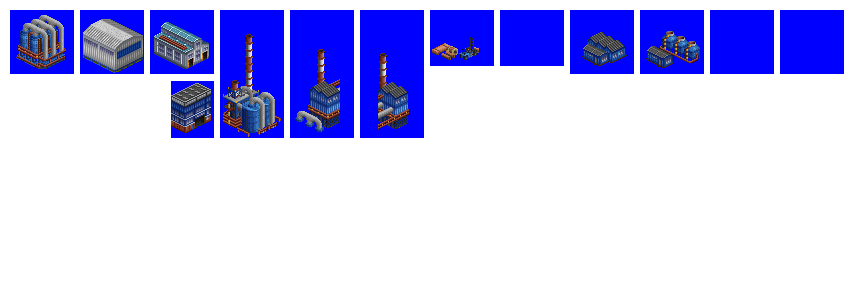
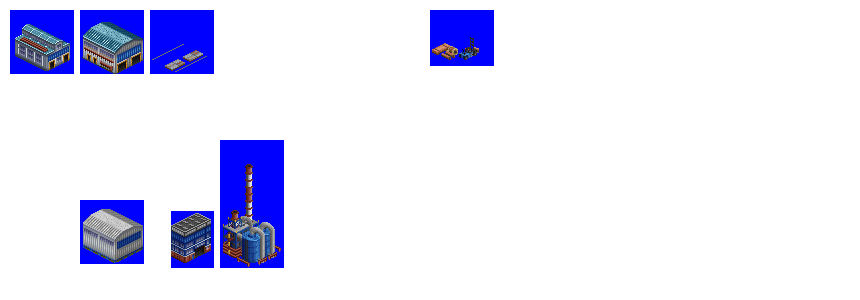
Change: Plate Mill done enough for v5

Changed region(s): [[0.0, 0.03, 0.514, 0.9], [0.5744, 0.03, 0.9977, 0.27]]

diff --git a/src/industries/plate_mill.py b/src/industries/plate_mill.py
@@ -21,7 +21,7 @@ industry = IndustrySecondary(
     nearby_station_name="string(STR_STATION_PLATE_MILL)",
     fund_cost_multiplier="200",
     pollution_and_squalor_factor=2,
-    sprites_complete=False,
+    sprites_complete=True,
 )
 
 industry.enable_in_economy(
@@ -44,305 +44,69 @@ spriteset_ground = industry.add_spriteset(
 spriteset_ground_overlay = industry.add_spriteset(
     type="empty",
 )
-spriteset_1 = industry.add_spriteset(
-    sprites=[(10, 10, 64, 64, -31, -31)],
+spriteset_shed_1 = industry.add_spriteset(
+    sprites=[(10, 10, 64, 64, -31, -35)],
 )
-spriteset_2 = industry.add_spriteset(
-    sprites=[(80, 10, 64, 64, -31, -26)],
+spriteset_shed_2 = industry.add_spriteset(
+    sprites=[(80, 10, 64, 64, -31, -35)],
 )
-spriteset_3 = industry.add_spriteset(
-    sprites=[(150, 10, 64, 64, -31, -31)],
+spriteset_shed_metal_1 = industry.add_spriteset(
+    sprites=[(150, 10, 64, 64, -31, -35)],
 )
-spriteset_4 = industry.add_spriteset(
-    sprites=[(220, 10, 64, 128, -31, -95)],
-)
-spriteset_5 = industry.add_spriteset(
-    sprites=[(290, 10, 64, 128, -31, -95)],
-)
-spriteset_6 = industry.add_spriteset(
-    sprites=[(360, 10, 64, 128, -31, -95)],
-)
-spriteset_7 = industry.add_spriteset(
-    sprites=[(430, 10, 64, 56, -31, -26)],
-)
-spriteset_8 = industry.add_spriteset(
-    sprites=[(500, 10, 64, 56, -31, -26)],
-)
-spriteset_9 = industry.add_spriteset(
-    sprites=[(570, 10, 64, 64, -31, -31)],
-)
-spriteset_10 = industry.add_spriteset(
-    sprites=[(640, 10, 64, 64, -31, -31)],
-)
-spriteset_11 = industry.add_spriteset(
-    sprites=[(710, 10, 64, 110, -31, -61)],
-)
-sprite_transformer = industry.add_sprite(
-    sprite_number=2054,
-)
-sprite_smoke_1 = industry.add_smoke_sprite(
-    smoke_type="white_smoke_big",
-    xoffset=1,
-    yoffset=0,
-    zoffset=72,
-)
-sprite_smoke_2 = industry.add_smoke_sprite(
-    smoke_type="white_smoke_big",
-    xoffset=-12,
-    yoffset=0,
-    zoffset=56,
-    animation_frame_offset=1,
-)
-sprite_smoke_3 = industry.add_smoke_sprite(
-    smoke_type="white_smoke_big",
-    xoffset=0,
-    yoffset=0,
-    zoffset=56,
-    animation_frame_offset=2,
-)
-
 industry.add_spritelayout(
-    id="plate_mill_spritelayout_tanks",
+    id="plate_mill_spritelayout_shed_1",
     tile="plate_mill_tile_1",
     ground_sprite=spriteset_ground,
     ground_overlay=spriteset_ground_overlay,
-    building_sprites=[spriteset_1],
+    building_sprites=[spriteset_shed_1],
     fences=["nw", "ne", "se", "sw"],
 )
 industry.add_spritelayout(
-    id="plate_mill_spritelayout_thickening_tank",
+    id="plate_mill_spritelayout_shed_2",
     tile="plate_mill_tile_1",
     ground_sprite=spriteset_ground,
     ground_overlay=spriteset_ground_overlay,
-    building_sprites=[spriteset_2],
+    building_sprites=[spriteset_shed_2],
     fences=["nw", "ne", "se", "sw"],
 )
 industry.add_spritelayout(
-    id="plate_mill_spritelayout_big_shed",
+    id="plate_mill_spritelayout_metal_1",
     tile="plate_mill_tile_1",
     ground_sprite=spriteset_ground,
     ground_overlay=spriteset_ground_overlay,
-    building_sprites=[spriteset_3],
+    building_sprites=[spriteset_shed_metal_1],
     fences=["nw", "ne", "se", "sw"],
 )
 industry.add_spritelayout(
-    id="plate_mill_spritelayout_flue_stack",
-    tile="plate_mill_tile_1",
-    ground_sprite=spriteset_ground,
-    ground_overlay=spriteset_ground_overlay,
-    building_sprites=[spriteset_4],
-    smoke_sprites=[sprite_smoke_1],
-    fences=["nw", "ne", "se", "sw"],
-)
-industry.add_spritelayout(
-    id="plate_mill_spritelayout_ore_handling_front",
-    tile="plate_mill_tile_1",
-    ground_sprite=spriteset_ground,
-    ground_overlay=spriteset_ground_overlay,
-    building_sprites=[spriteset_5],
-    smoke_sprites=[sprite_smoke_2, sprite_smoke_3],
-    fences=["nw", "ne", "se", "sw"],
-)
-industry.add_spritelayout(
-    id="plate_mill_spritelayout_ore_handling_rear",
-    tile="plate_mill_tile_1",
-    ground_sprite=spriteset_ground,
-    ground_overlay=spriteset_ground_overlay,
-    building_sprites=[spriteset_6],
-    fences=["nw", "ne", "se", "sw"],
-)
-industry.add_spritelayout(
-    id="plate_mill_spritelayout_copper_forklift",
-    tile="plate_mill_tile_1",
-    ground_sprite=spriteset_ground,
-    ground_overlay=spriteset_ground_overlay,
-    building_sprites=[spriteset_7],
-    fences=["nw", "ne", "se", "sw"],
-)
-industry.add_spritelayout(
-    id="plate_mill_spritelayout_small_shed",
-    tile="plate_mill_tile_1",
-    ground_sprite=spriteset_ground,
-    ground_overlay=spriteset_ground_overlay,
-    building_sprites=[spriteset_9],
-    fences=["nw", "ne", "se", "sw"],
-)
-industry.add_spritelayout(
-    id="plate_mill_spritelayout_stack_vent_thing",
-    tile="plate_mill_tile_1",
-    ground_sprite=spriteset_ground,
-    ground_overlay=spriteset_ground_overlay,
-    building_sprites=[spriteset_10],
-    fences=["nw", "ne", "se", "sw"],
-)
-industry.add_spritelayout(
-    id="plate_mill_spritelayout_ground",
+    id="plate_mill_spritelayout_empty",
     tile="plate_mill_tile_1",
     ground_sprite=spriteset_ground,
     ground_overlay=spriteset_ground_overlay,
     building_sprites=[],
-    fences=["nw", "ne", "se", "sw"],
-)
-industry.add_spritelayout(
-    id="plate_mill_spritelayout_transformer",
-    tile="plate_mill_tile_1",
-    ground_sprite=spriteset_ground,
-    ground_overlay=spriteset_ground_overlay,
-    building_sprites=[sprite_transformer],
-    fences=["nw", "ne", "se", "sw"],
+    fences=[],
 )
 
 industry.add_industry_layout(
     id="plate_mill_industry_layout_1",
     layout=[
-        (0, 0, "plate_mill_spritelayout_transformer"),
-        (0, 1, "plate_mill_spritelayout_big_shed"),
-        (0, 2, "plate_mill_spritelayout_big_shed"),
-        (0, 3, "plate_mill_spritelayout_small_shed"),
-        (
-            1,
-            0,
-            "plate_mill_spritelayout_ore_handling_rear",
-        ),
-        (1, 1, "plate_mill_spritelayout_tanks"),
-        (
-            1,
-            2,
-            "plate_mill_spritelayout_stack_vent_thing",
-        ),
-        (
-            1,
-            3,
-            "plate_mill_spritelayout_copper_forklift",
-        ),
-        (
-            2,
-            0,
-            "plate_mill_spritelayout_ore_handling_front",
-        ),
-        (2, 1, "plate_mill_spritelayout_tanks"),
-        (
-            2,
-            2,
-            "plate_mill_spritelayout_stack_vent_thing",
-        ),
-        (2, 3, "plate_mill_spritelayout_ground"),
-        (3, 0, "plate_mill_spritelayout_flue_stack"),
-        (
-            3,
-            1,
-            "plate_mill_spritelayout_thickening_tank",
-        ),
-        (
-            3,
-            2,
-            "plate_mill_spritelayout_thickening_tank",
-        ),
-        (3, 3, "plate_mill_spritelayout_ground"),
-    ],
-)
-
-industry.add_industry_layout(
-    id="plate_mill_industry_layout_2",
-    layout=[
-        (
-            0,
-            0,
-            "plate_mill_spritelayout_ore_handling_rear",
-        ),
-        (
-            0,
-            1,
-            "plate_mill_spritelayout_stack_vent_thing",
-        ),
-        (0, 2, "plate_mill_spritelayout_tanks"),
-        (0, 3, "plate_mill_spritelayout_flue_stack"),
-        (0, 4, "plate_mill_spritelayout_tanks"),
-        (0, 5, "plate_mill_spritelayout_small_shed"),
-        (
-            1,
-            0,
-            "plate_mill_spritelayout_ore_handling_front",
-        ),
-        (
-            1,
-            1,
-            "plate_mill_spritelayout_stack_vent_thing",
-        ),
-        (1, 2, "plate_mill_spritelayout_big_shed"),
-        (1, 3, "plate_mill_spritelayout_big_shed"),
-        (1, 4, "plate_mill_spritelayout_big_shed"),
-        (
-            1,
-            5,
-            "plate_mill_spritelayout_copper_forklift",
-        ),
-        (2, 0, "plate_mill_spritelayout_transformer"),
-        (2, 1, "plate_mill_spritelayout_small_shed"),
-        (
-            2,
-            2,
-            "plate_mill_spritelayout_thickening_tank",
-        ),
-        (
-            2,
-            3,
-            "plate_mill_spritelayout_thickening_tank",
-        ),
-        (2, 4, "plate_mill_spritelayout_ground"),
-        (2, 5, "plate_mill_spritelayout_ground"),
-    ],
-)
-
-industry.add_industry_layout(
-    id="plate_mill_industry_layout_3",
-    layout=[
-        (
-            0,
-            0,
-            "plate_mill_spritelayout_thickening_tank",
-        ),
-        (0, 1, "plate_mill_spritelayout_tanks"),
-        (0, 2, "plate_mill_spritelayout_flue_stack"),
-        (0, 3, "plate_mill_spritelayout_tanks"),
-        (
-            0,
-            4,
-            "plate_mill_spritelayout_ore_handling_rear",
-        ),
-        (
-            1,
-            0,
-            "plate_mill_spritelayout_thickening_tank",
-        ),
-        (1, 1, "plate_mill_spritelayout_big_shed"),
-        (1, 2, "plate_mill_spritelayout_big_shed"),
-        (1, 3, "plate_mill_spritelayout_big_shed"),
-        (
-            1,
-            4,
-            "plate_mill_spritelayout_ore_handling_front",
-        ),
-        (2, 0, "plate_mill_spritelayout_transformer"),
-        (2, 1, "plate_mill_spritelayout_big_shed"),
-        (2, 2, "plate_mill_spritelayout_big_shed"),
-        (2, 3, "plate_mill_spritelayout_big_shed"),
-        (
-            2,
-            4,
-            "plate_mill_spritelayout_stack_vent_thing",
-        ),
-        (
-            3,
-            1,
-            "plate_mill_spritelayout_copper_forklift",
-        ),
-        (3, 2, "plate_mill_spritelayout_small_shed"),
-        (3, 3, "plate_mill_spritelayout_ground"),
-        (
-            3,
-            4,
-            "plate_mill_spritelayout_stack_vent_thing",
-        ),
+        (0, 0, "plate_mill_spritelayout_shed_2"),
+        (0, 1, "plate_mill_spritelayout_shed_2"),
+        (0, 2, "plate_mill_spritelayout_shed_2"),
+        (0, 3, "plate_mill_spritelayout_shed_2"),
+        (0, 4, "plate_mill_spritelayout_metal_1"),
+        (1, 0, "plate_mill_spritelayout_shed_2"),
+        (1, 1, "plate_mill_spritelayout_shed_2"),
+        (1, 2, "plate_mill_spritelayout_shed_2"),
+        (1, 3, "plate_mill_spritelayout_shed_2"),
+        (1, 4, "plate_mill_spritelayout_empty"),
+        (2, 0, "plate_mill_spritelayout_shed_1"),
+        (2, 1, "plate_mill_spritelayout_shed_1"),
+        (2, 2, "plate_mill_spritelayout_shed_1"),
+        (2, 3, "plate_mill_spritelayout_empty"),
+        (2, 4, "plate_mill_spritelayout_empty"),
+        (3, 1, "plate_mill_spritelayout_shed_1"),
+        (3, 2, "plate_mill_spritelayout_shed_1"),
+        (3, 3, "plate_mill_spritelayout_empty"),
+        (3, 4, "plate_mill_spritelayout_metal_1"),
     ],
 )
